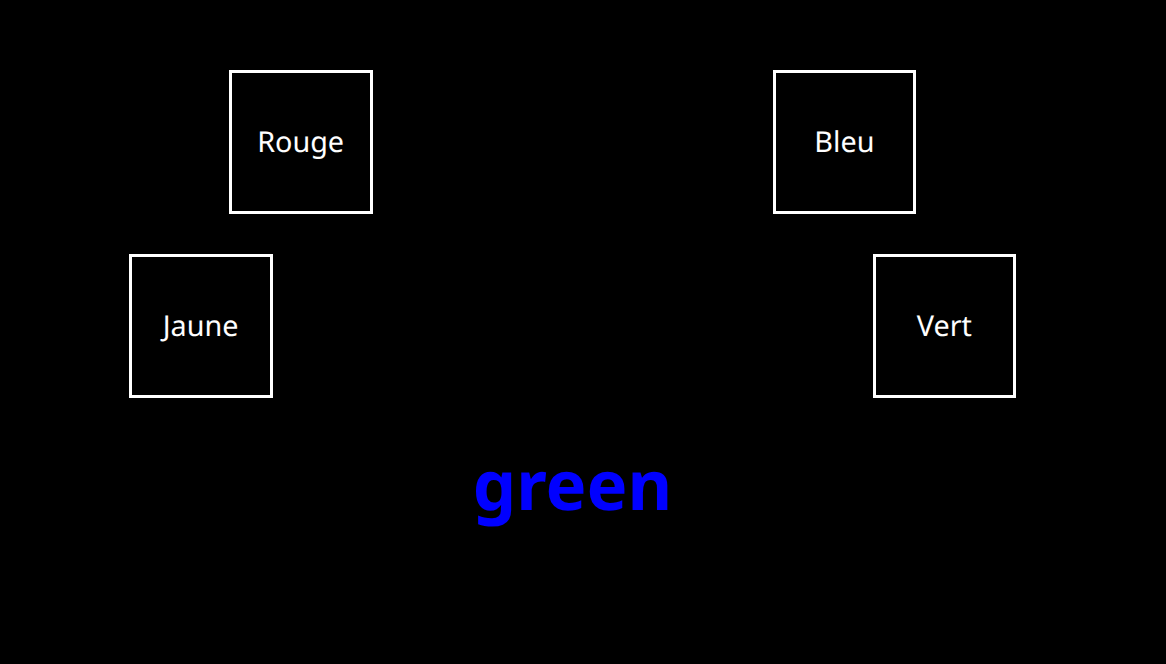
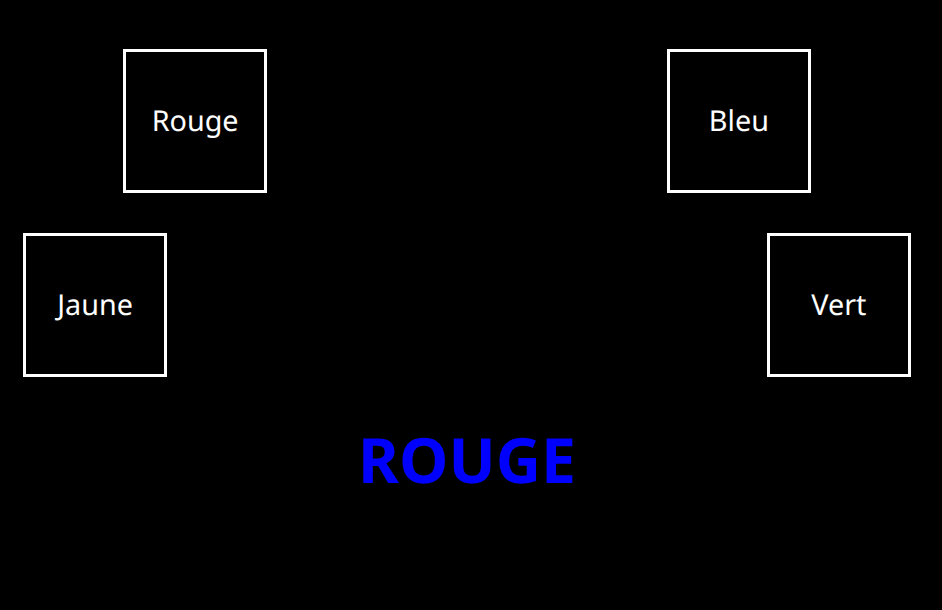
Change main transitions

diff --git a/scripts/script.js b/scripts/script.js
@@ -46,12 +46,17 @@ for (let i = 0; i < 20; i++) {
 
 //afficher une question
 function showCurrentQuestion() {
-  const q = quiz.getCurrentQuestion();
 
-  ui.colorText.innerHTML = q.colorText.toUpperCase();
-  ui.colorText.style.color = colorMap[q.colorName];
+  // Afficher le texte au bout de 300ms 
+  setTimeout(() => {
+    const q = quiz.getCurrentQuestion();
 
-  ui.colorText.dataset.target = q.colorName;
+    ui.colorText.innerHTML = q.colorText.toUpperCase();
+    ui.colorText.style.color = colorMap[q.colorName];
+
+    ui.colorText.dataset.target = q.colorName;
+  }, 300); 
+  
 }
 
 //finir le quiz
@@ -89,7 +94,8 @@ function submitAnswer(colorClickedFR) {
 
   //passer à la suite (ou non)
   if (quiz.goNext()) {
-    showCurrentQuestion();
+    ui.btnStart.style.display = "block";
+    ui.colorText.innerHTML = "";
   } else {
     endQuiz();
   }
@@ -99,6 +105,7 @@ function submitAnswer(colorClickedFR) {
 ui.btnStart.addEventListener("click", () => {
   showCurrentQuestion();
   ui.btnStart.style.display = "none";
+  document.body.style.cursor = "none";
 });
 
 ui.gameContainer.addEventListener("click", evt => {

diff --git a/style/stroop-app.css b/style/stroop-app.css
@@ -9,7 +9,9 @@ body {
     display: flex;
     justify-content: center;
     color: white;
-    margin : 5%
+    margin : 5%;
+    height: 100vh;
+    box-sizing: border-box;
 }
 
 .center {
